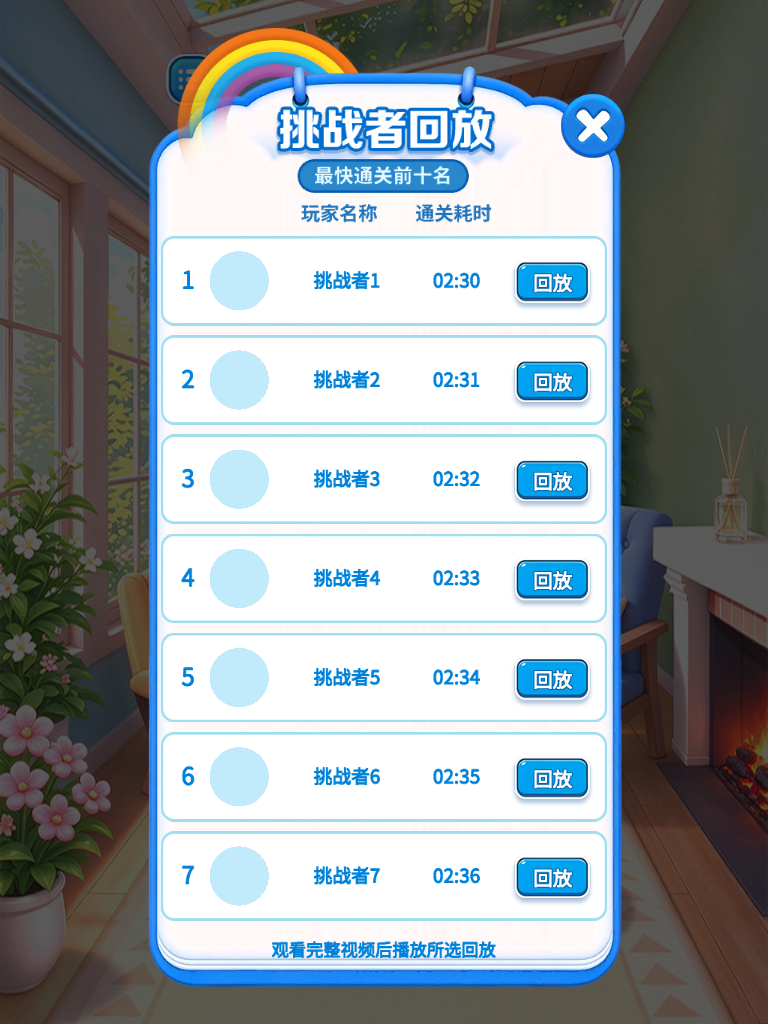
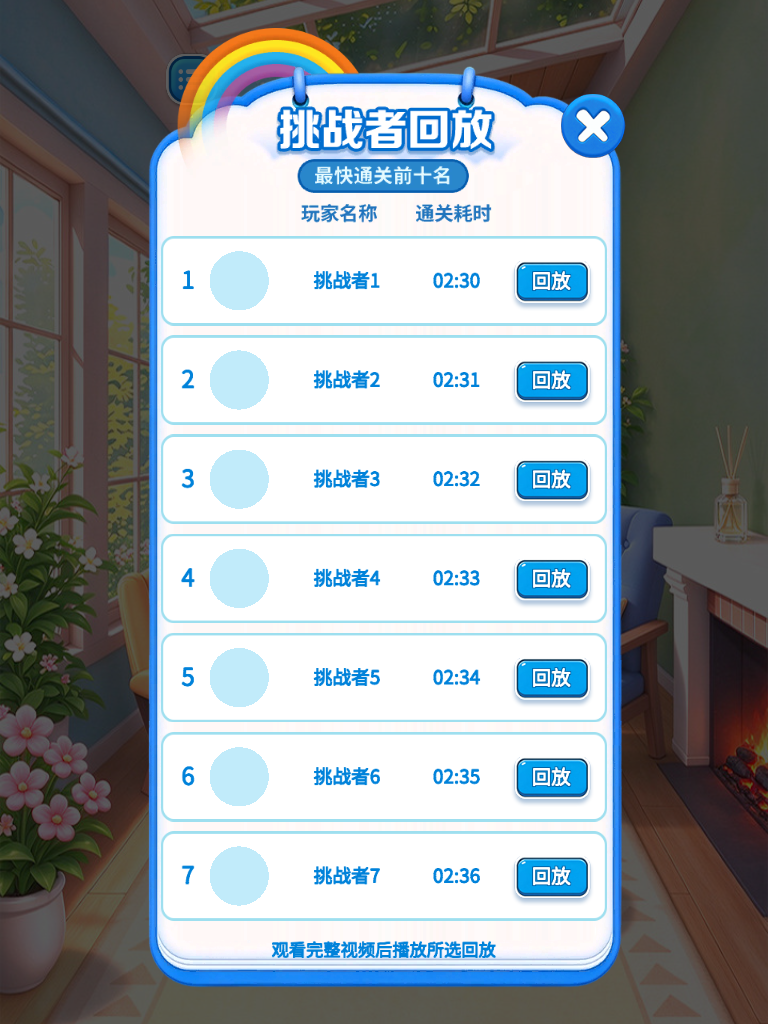
fix: center replay button glyphs within the button face

diff --git a/Assets/Match3D/Scripts/PotMasterReplayView.cs b/Assets/Match3D/Scripts/PotMasterReplayView.cs
@@ -22,7 +22,8 @@ public sealed class PotMasterReplayView : MonoBehaviour {
     }
     public static Button MakeButton(Transform parent,string name,string label,float x,float y,float w,float h,int size=25){
         var art=Art(parent,name,"pot-button",x,y,w,h);art.raycastTarget=true;var b=art.gameObject.AddComponent<Button>();b.targetGraphic=art;b.navigation=new Navigation{mode=Navigation.Mode.None};
-        var text=Label(art.transform,"Label",label,0,0,w,h-8,size);text.color=Color.white;var outline=text.gameObject.AddComponent<Outline>();outline.effectColor=new Color32(0,100,170,255);outline.effectDistance=new Vector2(1,-1);return b;
+        // The 64px sprite includes a lower shadow; center visible glyphs on its 52px button face.
+        var text=Label(art.transform,"Label",label,0,0,w,h*52f/64f,size);text.alignByGeometry=true;text.color=Color.white;var outline=text.gameObject.AddComponent<Outline>();outline.effectColor=new Color32(0,100,170,255);outline.effectDistance=new Vector2(1,-1);return b;
     }
     public static PotMasterReplayView Create(Transform parent){
         var root=Rect(parent,"PotMasterReplays",0,0,720,1280);root.anchorMin=Vector2.zero;root.anchorMax=Vector2.one;root.offsetMin=root.offsetMax=Vector2.zero;
